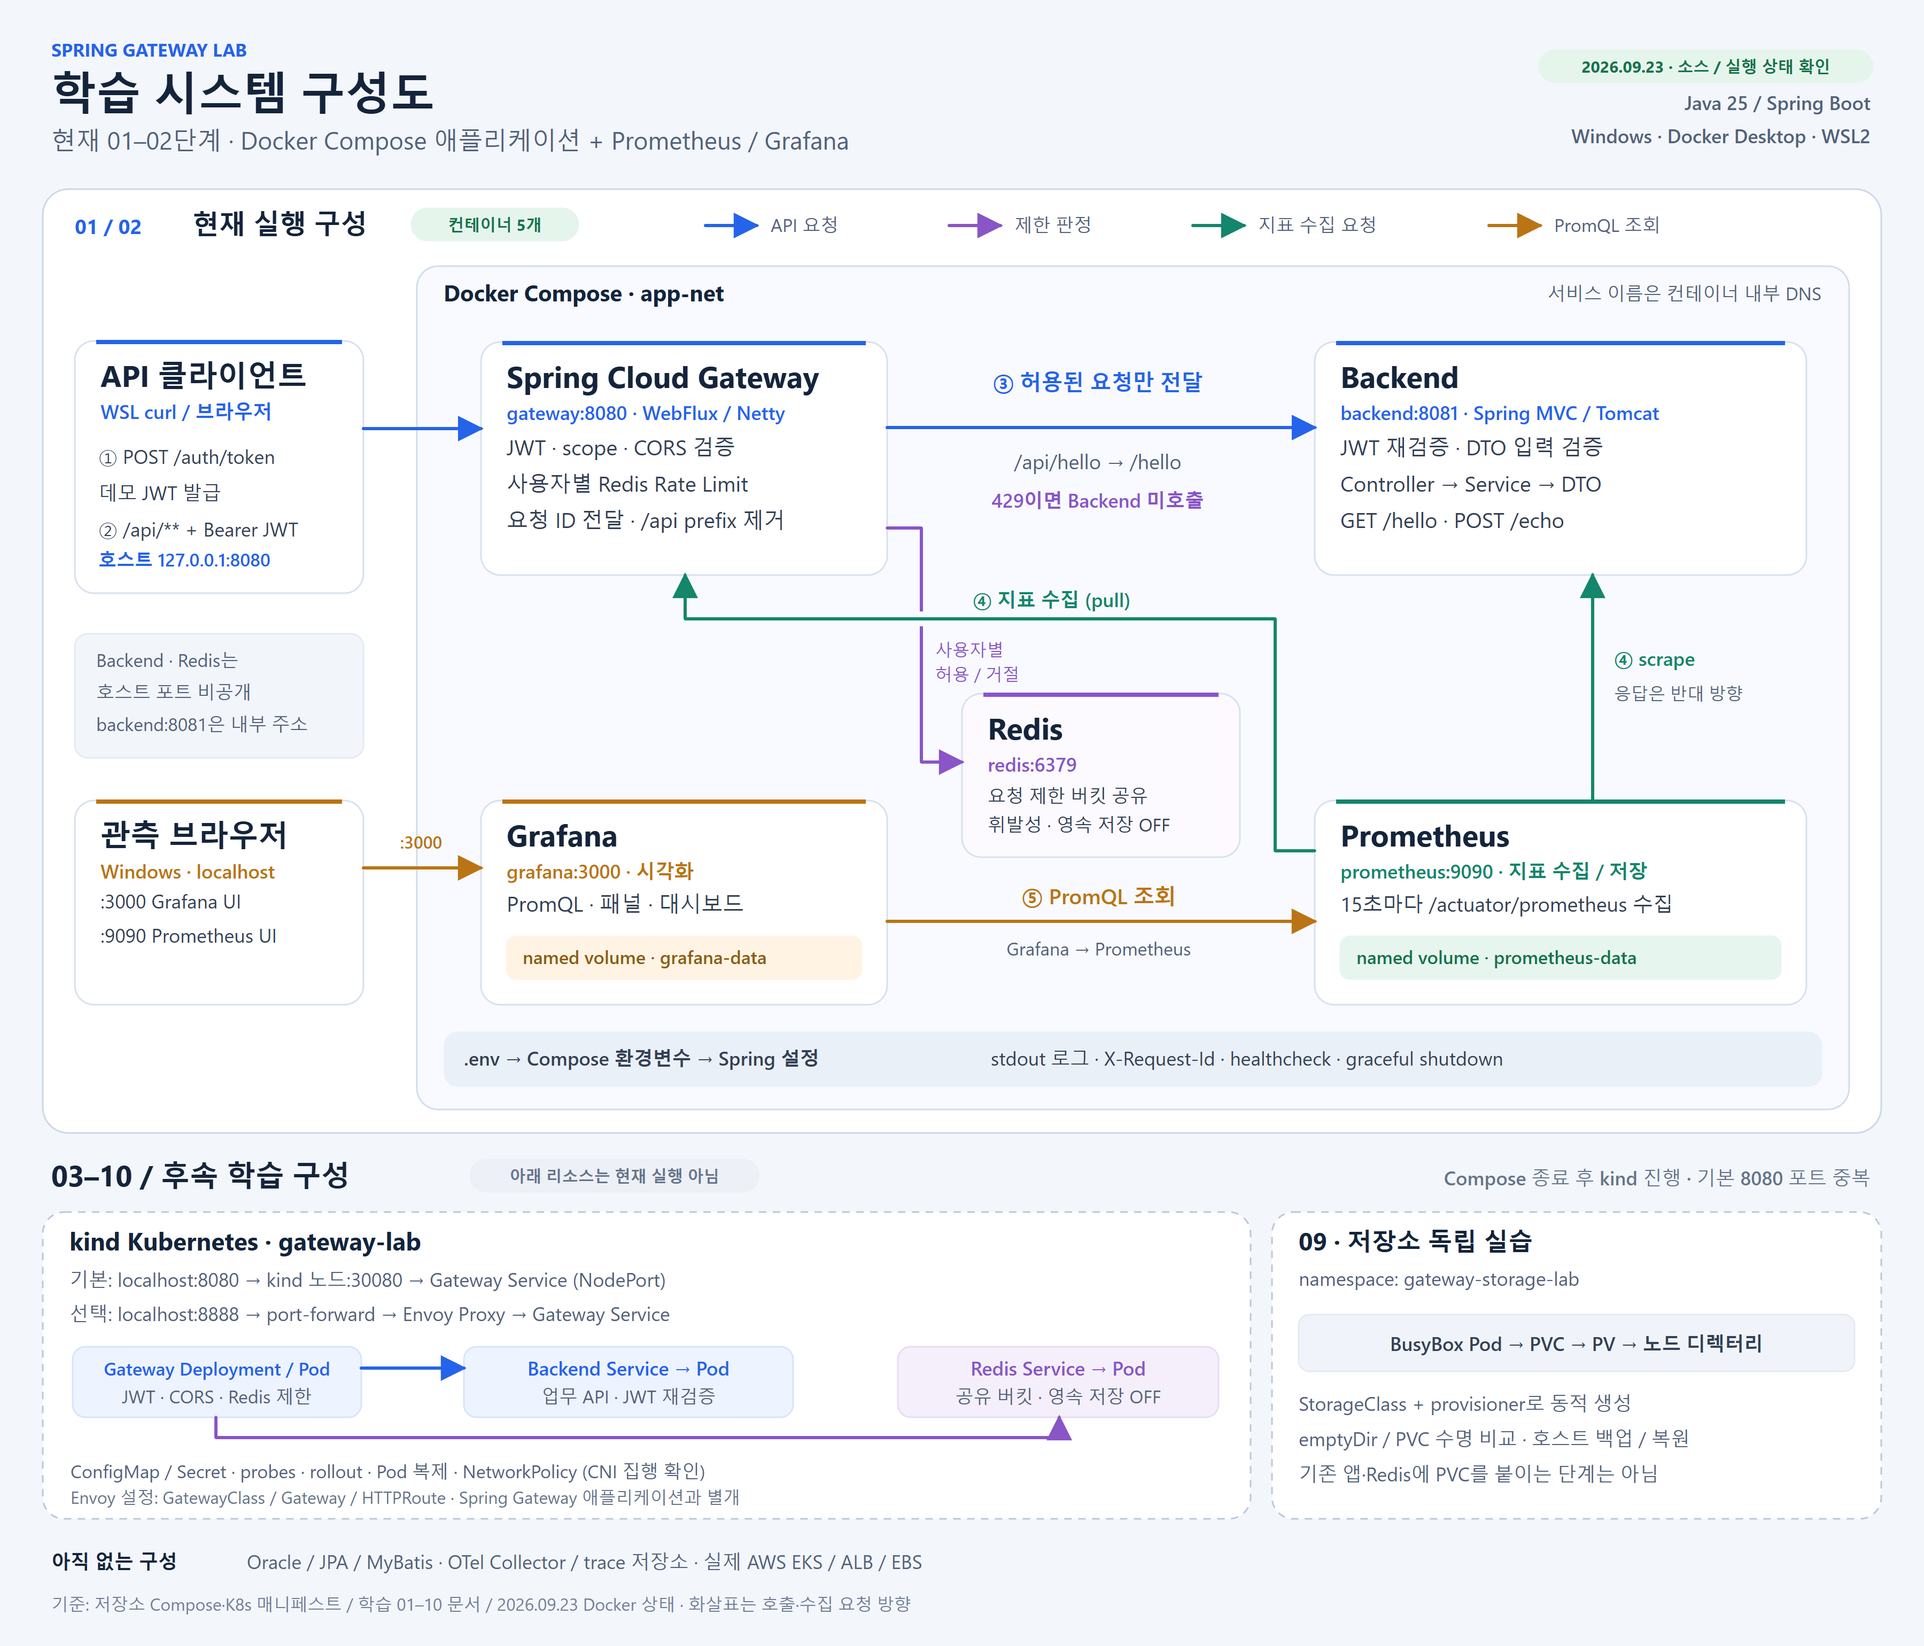
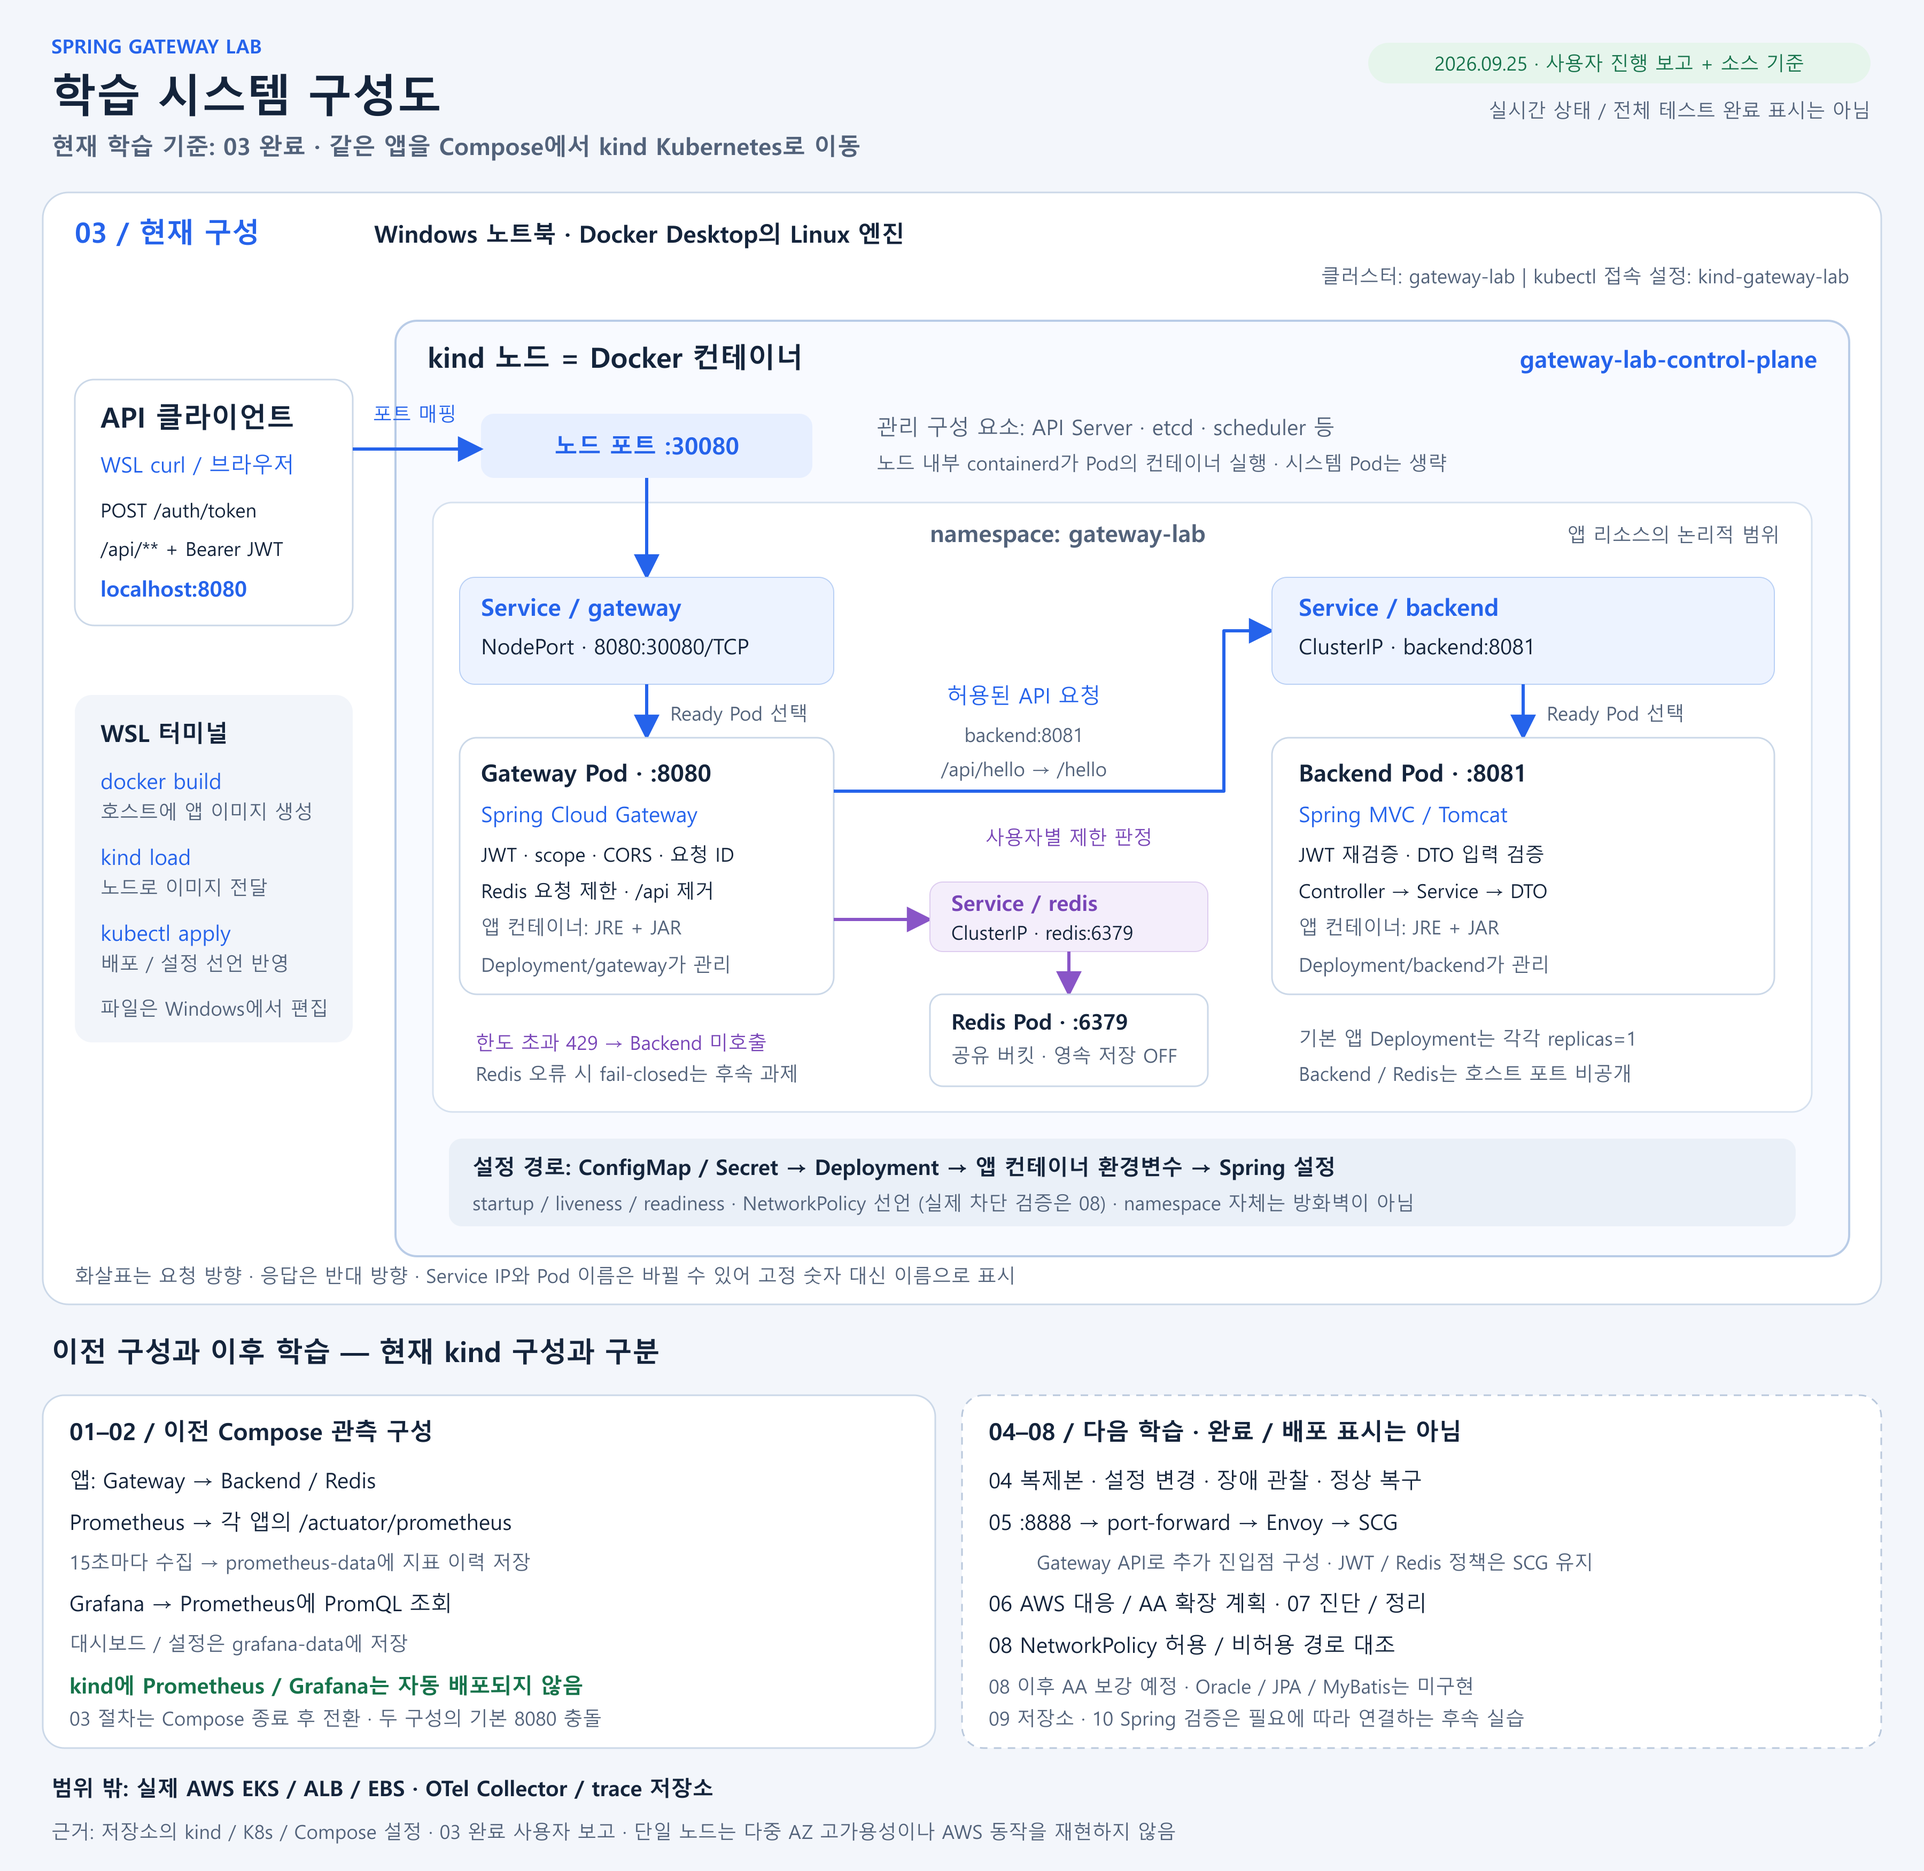
docs: update learning architecture for completed kind stage

diff --git a/docs/system-architecture.md b/docs/system-architecture.md
@@ -1,58 +1,93 @@
 # 학습 시스템 구성도
 
-작성·확인: 2026-09-23. 현재 저장소의 소스·설정과 Docker 실행 목록을 기준으로 작성한 스냅샷입니다.
-상단은 현재 진행 중인 01–02단계 Compose 구성, 하단은 이후 kind/Kubernetes 학습 구성입니다.
-현재 실행 중인 시스템에 Kubernetes·Oracle·trace 저장소가 모두 포함되어 있다고 해석하지 않습니다.
+갱신: 2026-09-25. **03단계 완료라는 사용자 진행 보고와 저장소 설정**을 기준으로 작성한 구성도입니다.
+이번 갱신에서 실행 중인 클러스터를 직접 점검하거나 모든 테스트의 통과 여부를 확인한 것은 아닙니다.
+상단은 03단계 kind/Kubernetes 구성, 하단은 이전 01–02단계 Compose 관측 구성과 이후 학습 범위입니다.
 
 [SVG 원본 열기](diagrams/learning-system-overview.svg) · [고해상도 PNG 열기](diagrams/learning-system-overview.png)
 
 ![학습 시스템 구성도](diagrams/learning-system-overview.png)
 
 SVG는 확대해도 선명한 벡터 파일이며 브라우저나 SVG 편집기에서 열 수 있습니다.
-PNG는 3600 × 3080 크기로 문서·발표 자료에 삽입할 수 있습니다. 구성이 바뀌면 두 파일을 함께 갱신합니다.
+PNG는 3600 × 3500 크기로 문서·발표 자료에 삽입할 수 있습니다. 구성이 바뀌면 두 파일을 함께 갱신합니다.
 
-## 현재 구성 읽기
+## 현재 03단계 구성 읽기
 
 화살표는 호출·수집 요청 방향입니다. 응답·조회 결과는 반대 방향으로 돌아오며 선의 교차는 연결 지점이 아닙니다.
 
-1. 클라이언트는 Gateway의 `POST /auth/token`으로 로컬 데모 JWT를 발급받습니다.
-2. `Authorization: Bearer ...`를 포함해 `/api/**`를 호출합니다. Gateway는 JWT·scope·CORS와 요청 ID를 처리합니다.
-3. Gateway가 Redis의 사용자별 제한 버킷을 확인합니다. 허용하면 `/api`를 제거해 Backend로 전달하고, 한도 초과면 429로 끝납니다.
-4. Backend는 JWT를 다시 검증하고 Controller → Service → DTO 흐름으로 요청을 처리합니다.
-5. Prometheus는 두 앱의 `/actuator/prometheus`를 15초마다 가져와 저장합니다. 앱이 Grafana에 지표를 직접 보내는 구조가 아닙니다.
-6. Grafana는 Prometheus에 PromQL을 보내 결과를 패널·대시보드로 표시합니다.
+1. 클라이언트는 `localhost:8080`으로 접근합니다. kind의 포트 매핑이 요청을 노드의 `30080` 포트로 전달하고, Gateway NodePort Service가 준비된 Gateway Pod로 연결합니다.
+2. Gateway의 `POST /auth/token`으로 로컬 데모 JWT를 발급받습니다.
+3. `Authorization: Bearer ...`를 포함해 `/api/**`를 호출합니다. Gateway는 JWT·scope·CORS와 요청 ID를 처리합니다.
+4. Gateway가 `redis:6379` Service를 통해 사용자별 제한 버킷을 확인합니다. 허용하면 `/api`를 제거해 `backend:8081` Service로 전달하고, 한도 초과면 Backend까지 가지 않고 429로 끝납니다.
+5. Backend Pod는 JWT를 다시 검증하고 Controller → Service → DTO 흐름으로 요청을 처리합니다.
+
+Gateway·Backend·Redis의 Deployment는 기본 복제본이 각각 1개입니다. 각 Pod의 컨테이너는 kind 노드 내부의
+containerd가 실행합니다. Docker Desktop이 실행하는 **kind 노드 컨테이너**와 그 안의 **앱 컨테이너**는 서로 다른 계층입니다.
+Gateway는 Netty, Backend는 내장 Tomcat에서 실행되며, 앱 이미지에 Java 실행 환경과 JAR가 포함됩니다.
+
+| 이름 / 포트 | 의미 |
+|---|---|
+| `gateway-lab` (클러스터 이름) | kind 클러스터 생성 시 지정한 이름 |
+| `kind-gateway-lab` (context) | kubectl이 해당 클러스터에 접속할 때 고르는 설정 이름 |
+| `gateway-lab-control-plane` (노드 이름) | Docker Desktop에서 실행하는 단일 kind 노드 컨테이너 |
+| `gateway-lab` (namespace) | Gateway·Backend·Redis 리소스를 묶는 Kubernetes 논리적 범위. 클러스터 이름과는 별개 |
+| `localhost:8080` → 노드 `30080` | 호스트에서 kind로 들어가는 포트 매핑 |
+| Gateway `8080:30080/TCP` | Service 포트 `8080` : 외부 진입용 NodePort `30080`. Gateway Pod의 앱 포트도 `8080` |
+| Backend `backend:8081`, Redis `redis:6379` | 같은 namespace에서 사용하는 ClusterIP Service의 DNS 이름과 포트 |
+
+Gateway만 NodePort인 이유는 이 단계에서 **호스트의 API 요청을 받는 진입점**이기 때문입니다.
+Backend와 Redis는 클러스터 내부 통신용이므로 ClusterIP로 두고 호스트 포트를 공개하지 않습니다.
+NodePort는 외부 IP를 자동으로 할당하지 않으므로 `EXTERNAL-IP`가 `<none>`이어도 정상입니다.
+Service의 `10.96.x.x` 같은 IP는 재생성 시 달라질 수 있어 앱 설정에서는 DNS 이름을 사용합니다.
+
+Namespace는 노드 안의 물리적 컨테이너나 방화벽이 아닙니다. 그림에서는 앱 리소스의 소속을 나타내려고
+노드 영역 안에 표시했습니다. ClusterIP도 Gateway만 접근하도록 제한하는 보안 정책은 아닙니다.
+NetworkPolicy 선언과 CNI의 실제 집행 여부는 구분하며, 접근 차단은 08단계 대조 실험으로 확인합니다.
+
+설정은 `ConfigMap / Secret → Deployment 환경변수 → Spring Environment` 경로로 전달됩니다.
+프로젝트 설정 일부는 `@ConfigurationProperties` 설정 객체에 바인딩됩니다.
+환경변수로 주입한 설정을 변경한 경우 기존 Pod에 자동 반영되지 않으므로 04단계에서 rollout을 실습합니다.
+자세한 설정 책임은 [패키지 구조](package-structure.md), 이름별 명령 예시는 [03단계](learning/03-kind-kubernetes.md)를 참고합니다.
 
 Redis 장애의 기본 허용 fallback은 현재 유지합니다. 한도 초과 429와 Redis 오류 시 요청별 fail-closed는 별개이며,
 후자는 [후속 장애 정책](resilience-policy.md)입니다. 공통 오류 형식과 401/403/429/502/504 처리 범위는
 [API 응답 계약](api-contract.md)을 참고합니다.
 
-| Windows / WSL 호스트에서 접근 | 용도 |
+## 이전 01–02단계 Compose 관측 구성
+
+아래 구성은 이전 단계에서 사용한 별도 실행 방식이며 **03단계 kind에 자동으로 함께 배포되지 않습니다.**
+Compose와 kind의 기본 API 진입 포트가 모두 8080이므로 전환 시 Compose를 종료합니다.
+그림에 이전 구성을 남긴 것은 학습 내용을 비교하기 위한 것이며, 지금 두 구성이 동시에 실행 중이라는 뜻이 아닙니다.
+
+| Compose 실행 시 Windows / WSL 호스트에서 접근 | 용도 |
 |---|---|
 | `http://localhost:8080` | Spring Gateway API 및 로컬 데모 토큰 발급 |
 | `http://localhost:9090` | Prometheus Query / Targets UI |
 | `http://localhost:3000` | Grafana UI |
 | `backend:8081`, `redis:6379` | Compose 네트워크 내부 이름·포트. 호스트에 포트를 공개하지 않음 |
 
-`expose` 자체는 접근 제어 정책이 아닙니다. Grafana 데이터 소스 URL은 컨테이너 내부 주소
+Prometheus는 두 앱의 `/actuator/prometheus`를 15초마다 가져와 저장합니다.
+Grafana는 Prometheus에 PromQL을 보내 결과를 패널·대시보드로 표시합니다. 앱이 Grafana에 지표를 직접 보내지는 않습니다.
+Compose의 `expose` 자체는 접근 제어 정책이 아닙니다. Grafana 데이터 소스 URL은 컨테이너 내부 주소
 `http://prometheus:9090`이며 Windows 브라우저에서 사용하는 `localhost:9090`과 구분합니다.
 Prometheus `up=1`은 지표 수집 성공을 의미하며 전체 업무 API의 정상 동작까지 보장하지 않습니다.
 
 Prometheus와 Grafana는 각각 named volume을 사용합니다. Redis는 RDB/AOF를 끈 요청 제한 실습용이며 영속 DB가 아닙니다.
-환경값은 `.env → Compose environment → Spring Environment`로 전달되고, 프로젝트 설정 일부는
-`@ConfigurationProperties`가 붙은 설정 객체에 바인딩됩니다. 상세 경로는 [설정 책임](package-structure.md)에 있습니다.
+Compose 환경값은 `.env → Compose environment → Spring Environment`로 전달됩니다.
+kind의 Redis도 이 단계에서는 영속 저장소를 사용하는 데이터베이스가 아닙니다.
 
 ## 후속 학습 구성 읽기
 
-- **03–04 · kind**: 같은 Gateway·Backend·Redis를 Deployment/Pod와 Service로 옮깁니다. ConfigMap/Secret, probes, rollout, 복제본을 실습합니다.
+- **04 · 운영·복구**: 03단계에서 배포한 앱의 복제본, ConfigMap 변경, readiness, rollout과 복구를 실습합니다.
 - **05 · 선택형 Envoy**: Gateway API 리소스로 Envoy Proxy를 설정하고 `localhost:8888` port-forward 경로를 추가합니다.
   기본 NodePort 경로도 남으며, 두 진입 경로 모두 Spring Gateway를 통과합니다. Envoy가 JWT·Redis 제한을 중복 수행하지 않습니다.
+- **06 · AWS 비교 / 07 · 진단**: 로컬 구성을 AWS 구성 요소와 비교하고, 장애 상황의 확인 순서를 익힙니다. 실제 AWS 자원을 배포하지 않습니다.
 - **08 · NetworkPolicy**: Backend/Redis로 들어오는 연결을 Gateway Pod에 허용하는 정책입니다. CNI의 실제 집행 여부는 별도 대조 실험으로 확인합니다.
 - **09 · 저장소**: 별도 `gateway-storage-lab` namespace에서 BusyBox·PVC·PV로 Pod 교체와 백업·복원을 실습합니다.
   기존 Backend/Redis에 영속 저장소를 붙이는 단계가 아닙니다. StorageClass/local-path provisioner의 조건은 실행 전 확인합니다.
 - **10 · Spring Boot**: Stateless 인증, 설정 외부화, health, stdout 로그, graceful shutdown과 미완료 장애 정책을 함께 검증합니다.
 
-Compose와 kind 기본 진입 포트는 모두 8080이므로 현재 Compose를 종료한 뒤 kind로 전환합니다.
-Prometheus/Grafana 관측 설정은 현재 Compose용이며 kind에 자동 배포되지 않습니다.
+현재 학습 계획은 **08까지 진행한 뒤 AA 영역을 보강**하는 것입니다. 09–10은 이후 선택·보강 범위로 구분합니다.
 Oracle/JPA/MyBatis, OTel Collector/trace 저장소, 실제 AWS 리소스는 현재 구성에 포함되지 않습니다.
 kind는 EKS 에뮬레이터가 아니며 AWS 자원 생성은 이 무료 로컬 학습의 실행 범위 밖입니다.
 
@@ -60,10 +95,10 @@ kind는 EKS 에뮬레이터가 아니며 AWS 자원 생성은 이 무료 로컬 
 
 | 영역 | 소스 / 문서 |
 |---|---|
-| 현재 컨테이너·포트·환경변수 | [기본 Compose](../docker-compose.yml), [관측 Compose](../docker-compose.observability.yml) |
+| 이전 Compose 컨테이너·포트·환경변수 | [기본 Compose](../docker-compose.yml), [관측 Compose](../docker-compose.observability.yml) |
 | 인증·요청 제한·Backend 라우팅 | [Gateway 설정](../gateway/src/main/resources/application.yml), [트래픽 진입 책임](traffic-entry.md) |
 | 지표 수집·조회 | [Prometheus 설정](../observability/prometheus.yml), [Grafana 데이터 소스](../observability/grafana/provisioning/datasources/prometheus.yml) |
-| kind / NodePort / 앱 배포 | [kind 설정](../k8s/kind-config.yaml), [기본 매니페스트](../k8s/base), [03단계](learning/03-kind-kubernetes.md) |
+| 현재 kind / NodePort / 앱 배포 | [kind 설정](../k8s/kind-config.yaml), [기본 매니페스트](../k8s/base), [03단계](learning/03-kind-kubernetes.md) |
 | Envoy / Gateway API | [선택 매니페스트](../k8s/gateway-api), [05단계](learning/05-gateway-api.md) |
 | 정책·저장소·Spring Boot 검증 | [08단계](learning/08-network-policy-validation.md), [09단계](learning/09-storage-and-persistence.md), [10단계](learning/10-spring-boot-readiness.md) |
 

diff --git a/README.md b/README.md
@@ -5,7 +5,7 @@ Java 25, Gradle 9.7.1, Spring Cloud Gateway, Redis 및 kind Kubernetes를
 
 [AA/SWA 검토와 반영 범위](docs/aa-swa-review.md)에서 공통 응답·계층 분리·설정·로그의 설계 판단을 확인할 수 있습니다.
 
-[학습 시스템 구성도](docs/system-architecture.md)에서 현재 Compose 구성과 이후 Kubernetes 학습 구성을 한눈에 볼 수 있습니다.
+[학습 시스템 구성도](docs/system-architecture.md)에서 03단계 kind 구성과 NodePort 접속 경로, 이전 Compose 관측 구성 및 이후 학습 범위를 한눈에 볼 수 있습니다.
 
 처음 시작한다면 [무료 로컬 AWS/EKS 학습 로드맵](docs/learning/README.md)을 먼저 읽으세요.
 kind 배포·운영 실습 후에는 [9단계 PV·PVC와 저장·복원](docs/learning/09-storage-and-persistence.md)으로

diff --git a/docs/learning/README.md b/docs/learning/README.md
@@ -22,7 +22,7 @@ kind는 로컬 Kubernetes이지 AWS EKS 에뮬레이터가 아닙니다. IAM, VP
 
 ## 시스템 구성도
 
-[현재 Compose 구성과 후속 Kubernetes 학습 구성도](../system-architecture.md)를 먼저 보면 API·Redis·관측 경로와 단계별 실행 범위를 연결할 수 있습니다. SVG 원본과 PNG를 함께 제공합니다.
+[03단계 kind 구성과 전후 학습 구성도](../system-architecture.md)를 먼저 보면 NodePort·Service·Pod의 연결과 이전 Compose 관측 구성, 이후 학습 범위를 구분할 수 있습니다. SVG 원본과 PNG를 함께 제공합니다.
 
 ## 학습 순서
 
